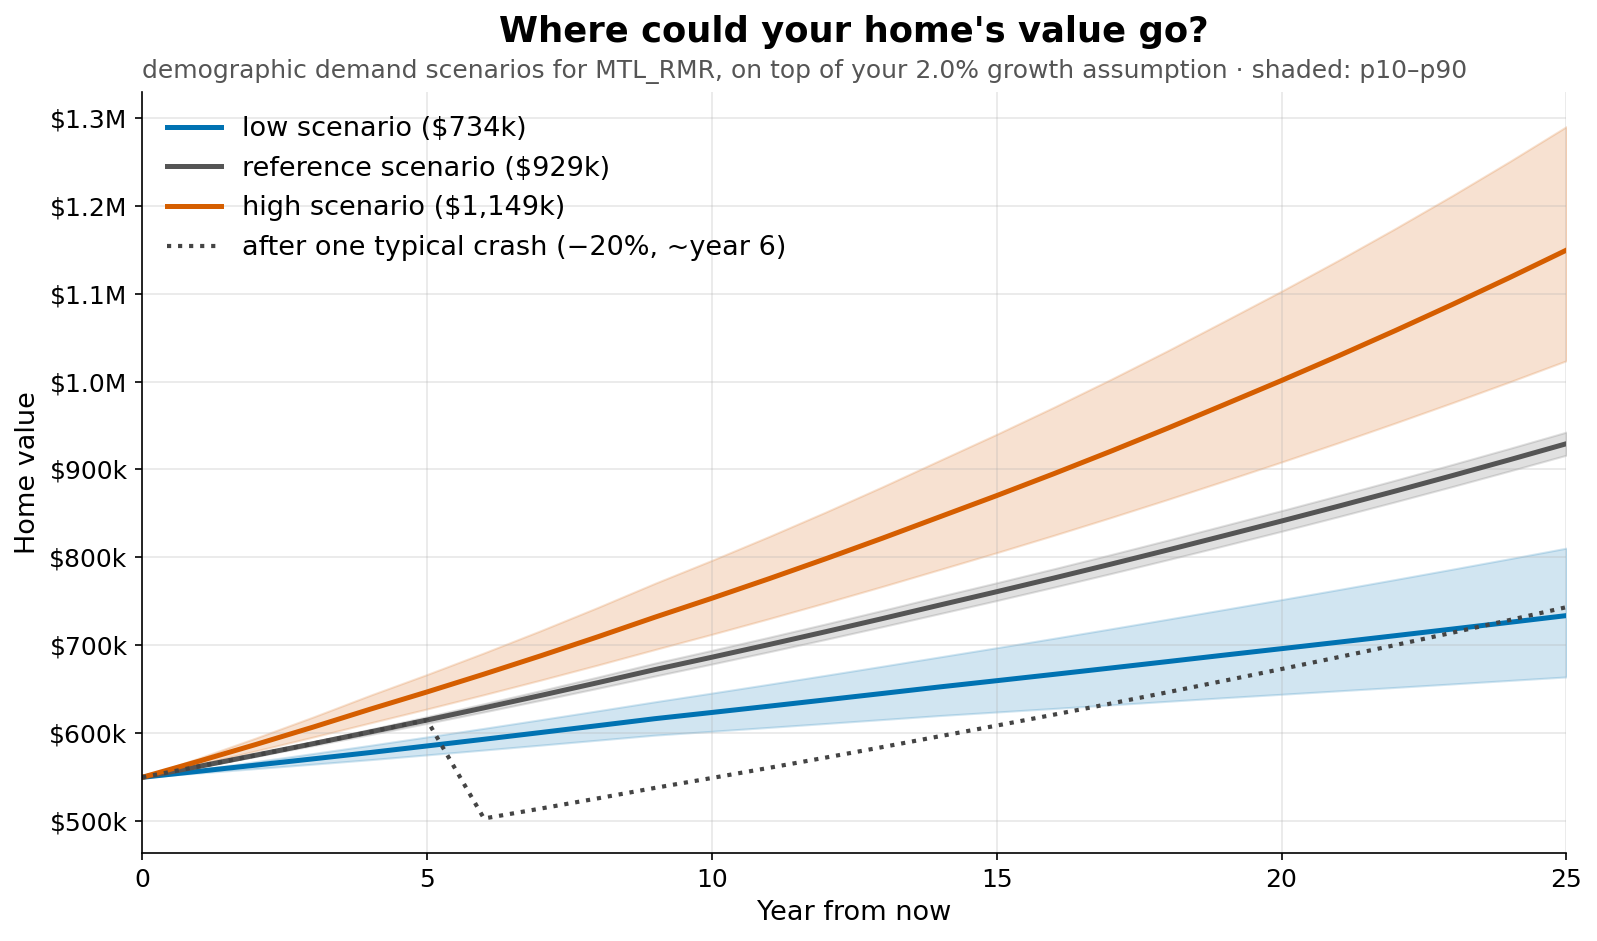
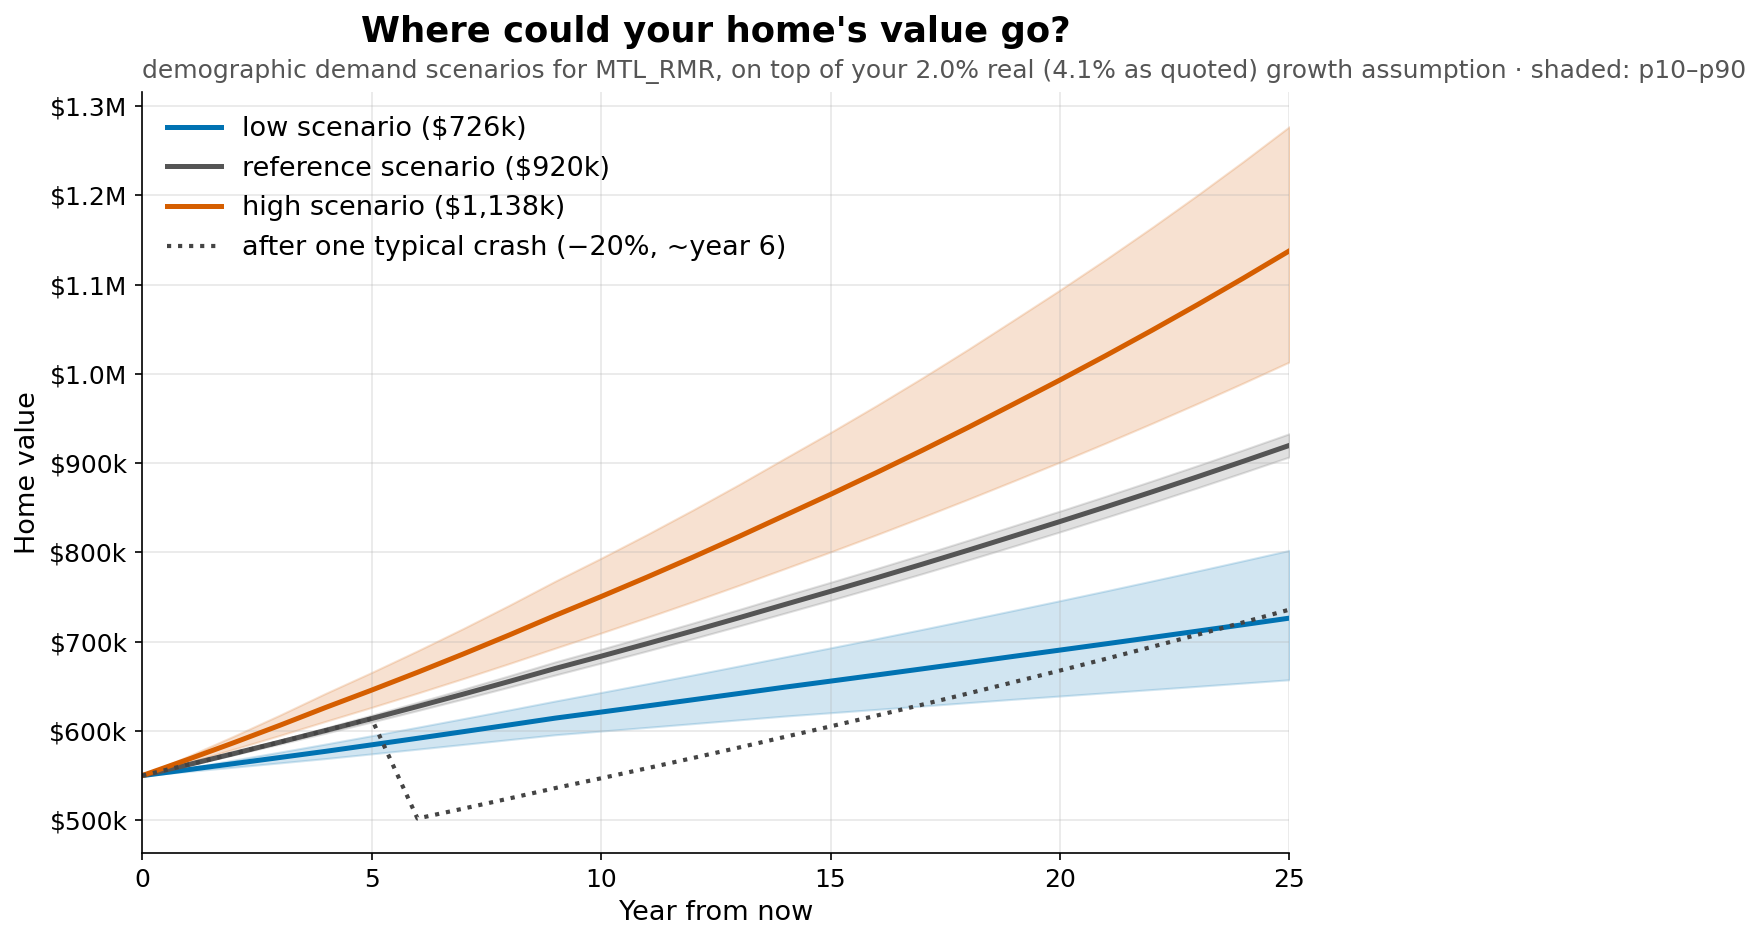
docs(story): regenerate the showcase — the example's migrated as-quoted values moved the run
The showcase example now types its rates as quoted (7.2% discount, 5.2% fee
escalation, 4.1% growth, 4.7% rent escalation, 7.2% return, deflated by the
2.1% planning inflation), so the run moved: house still edges the condo, by
$4,135 (0.8%) instead of $3,115 (0.6%); the break-even rent band is
$2,189–$2,413/mo (crossing $2,298) instead of $2,193–$2,418 (crossing
$2,303); the captions of acts 2 and 4 name the discount and growth
assumptions in both forms. Rerun twice: byte-stable.

diff --git a/docs/story/STORY.md b/docs/story/STORY.md
@@ -2,15 +2,15 @@
 
 # The story of this housing decision
 
-**Too close to call — effectively a tie: Buying a house edges buying a condo by $3,115 (0.6%) over 25 years, cheapest in only 36% of 5,000 simulations — the Monte Carlo mean favours renting** — under MTL_RMR demographic conditions · 25-year horizon.
+**Too close to call — effectively a tie: Buying a house edges buying a condo by $4,135 (0.8%) over 25 years, cheapest in only 36% of 5,000 simulations** — under MTL_RMR demographic conditions · 25-year horizon.
 
-> warning: decisiveness rests on uncertainty inputs the user did not state: simulation.investment_return_vol=10.0% (assistant), condo.price_shock.annual_hazard=3.0% (assistant), condo.price_shock.severity_mean=20.0% (assistant), condo.events=1 entry (cost_vol 20.0%) (assistant), house.price_shock.annual_hazard=3.0% (assistant), house.price_shock.severity_mean=20.0% (assistant), house.events=1 entry (cost_vol 15.0%) (assistant), market_scenario.path='tests/fixtures/scenario_prior_golden.json' (assistant) — the deterministic line alone says house by $3,115 (0.6% of its PV — not decisive under the 5% band)
+> warning: decisiveness rests on uncertainty inputs the user did not state: simulation.investment_return_vol=10.0% (assistant), condo.price_shock.annual_hazard=3.0% (assistant), condo.price_shock.severity_mean=20.0% (assistant), condo.events=1 entry (cost_vol 20.0%) (assistant), house.price_shock.annual_hazard=3.0% (assistant), house.price_shock.severity_mean=20.0% (assistant), house.events=1 entry (cost_vol 15.0%) (assistant), market_scenario.path='tests/fixtures/scenario_prior_golden.json' (assistant) — the deterministic line alone says house by $4,135 (0.8% of its PV — not decisive under the 5% band)
 
 Demographic prior: MTL_RMR demand model (ISQ 2026 scenarios, 2021 census) · constants as of 2026-07-21 · simulation year 1 = calendar 2026, bands 2030/2035/2040/2045/2050 · mapping v1: excess-demand rate → real price drift through a linear-through-origin β prior with the uniform β demoflow pinned; horizon bands (2030…2050) are piecewise-constant with no interpolation; drawdown_weight_tilt multiplies the user's price-shock hazard (S4b sketch §1 slots 2–3, §3) · encoded REAL drift by band, added to value_growth_rate in the Monte Carlo — all: reference 2030 +0.27%/yr, 2035 +0.25%/yr, 2040 +0.09%/yr, 2045 +0.03%/yr, 2050 +0.01%/yr (scenarios -0.94%…+1.35%) · 13 pinned sources (sha256 in --json): StatCan 98-10-0231-01; ISQ arrival flows (RA); ISQ arrival flows (RMR); derived: headship rate by single year of age; StatCan 98-10-0232-01; derived: living-arrangement shares; StatCan 98-10-0134-01; CIA CPM2014 mortality + CPM-B scale; derived: ownership rate by geography × age; derived: HORS_RMR ownership curve; ISQ population scenarios (QC); ISQ population scenarios (RA); ISQ population scenarios (RMR).
 
 ## Act — The answer
 
-Too close to call — effectively a tie: Buying a house edges buying a condo by $3,115 (0.6%) over 25 years, cheapest in only 36% of 5,000 simulations — the Monte Carlo mean favours renting
+Too close to call — effectively a tie: Buying a house edges buying a condo by $4,135 (0.8%) over 25 years, cheapest in only 36% of 5,000 simulations
 
 ![The answer](act1_the_answer.png)
 
@@ -28,7 +28,7 @@ In 36% of 5,000 simulations, buying a house came out cheapest.
 
 ## Act — Your home's possible futures
 
-Under MTL_RMR demographic demand scenarios, the home's value fans out around your 2.0% growth assumption.
+Under MTL_RMR demographic demand scenarios, the home's value fans out around your 2.0% real (4.1% as quoted) growth assumption.
 
 ![Your home's possible futures](act4_home_futures.png)
 
@@ -40,7 +40,7 @@ The demographic signal itself: projected price drift from household demand in MT
 
 ## Act — The market line
 
-Your $2,400/mo sits inside the tie band around the crossing — renting is cheaper below $2,193/mo; too close to call between $2,193/mo and $2,418/mo; buying a house is cheaper above $2,418/mo (crossing $2,303/mo; band = 5% of the cheaper option's PV).
+Your $2,400/mo sits inside the tie band around the crossing — renting is cheaper below $2,189/mo; too close to call between $2,189/mo and $2,413/mo; buying a house is cheaper above $2,413/mo (crossing $2,298/mo; band = 5% of the cheaper option's PV).
 
 ![The market line](act6_the_market_line.png)
 
@@ -50,15 +50,16 @@ Full text report: [report.txt](report.txt)
 
 ## Assumptions
 
-- mode: real terms · discount_rate 5.0%
-- condo: value growth +2.0%/yr · fee escalation +3.0%/yr · selling_cost_rate 5.0%
-- house: value growth +2.0%/yr · maintenance 1.2% of value/yr · selling_cost_rate 5.0%
+- mode: real terms · discount_rate 7.2% as quoted → 5.0% real (after 2.1% inflation)
+- condo: value growth +2.0%/yr (4.1% as quoted) · fee escalation +3.0%/yr (5.2% as quoted) · selling_cost_rate 5.0%
+- house: value growth +2.0%/yr (4.1% as quoted) · maintenance 1.2% of value/yr · selling_cost_rate 5.0%
 - condo other costs: property_tax $3,600/yr = 0.750% of price [no anchor match — hde --print-anchors]
 - house other costs: property_tax $4,700/yr = 0.855% of price [no anchor match — hde --print-anchors] · home_insurance $1,200/yr [no anchor match — hde --print-anchors]
-- rent: escalation +2.5%/yr · invested capital $145,000 at +5.0%/yr
+- rent: escalation +2.5%/yr (4.7% as quoted) · invested capital $145,000 at +5.0%/yr (7.2% as quoted)
 - conventions: end-of-year cash flows discounted at (1+dr)^-t · fees, rent and other costs escalate before year 1, maintenance from year 1 · mortgage = level annual payment at an effective annual rate · $/mo equivalent at (1+dr)^(1/12)−1 (docs/reference/ARCHITECTURE.md figure glossary)
 - demographic prior: MTL_RMR (ISQ 2026 scenarios, 2021 census) · constants as of 2026-07-21 · sha256 e73fff23ef46… [demoflow ScenarioPrior v1] · reference REAL drift over this 25-year run — all: +0.27%/yr (2030 band), +0.25%/yr (2035 band), +0.09%/yr (2040 band), +0.03%/yr (2045 band), +0.01%/yr (2050 band) (added to value_growth_rate in the Monte Carlo; all bands and the scenario range in --json)
-- defaults applied: economic.mode='real', economic.inflation_rate=0.0% [ref: FP Canada 2026 PAG], condo.selling_cost_rate=5.0% [WOWA 2026], house.selling_cost_rate=5.0% [WOWA 2026]
+- defaults applied: economic.mode='real', economic.inflation_rate=2.1% [FP Canada 2026 PAG], condo.selling_cost_rate=5.0% [WOWA 2026], house.selling_cost_rate=5.0% [WOWA 2026]
+- rates: as quoted · discount_rate 7.2% as quoted = 5.0% after 2.1% inflation · condo.fee_escalation_rate 5.2% as quoted = 3.0% after 2.1% inflation · condo.value_growth_rate 4.1% as quoted = 2.0% after 2.1% inflation · condo.other_recurring_costs.property_tax.escalation_rate 2.1% as quoted = 0.0% after 2.1% inflation · house.value_growth_rate 4.1% as quoted = 2.0% after 2.1% inflation · house.other_recurring_costs.property_tax.escalation_rate 2.1% as quoted = 0.0% after 2.1% inflation · house.other_recurring_costs.home_insurance.escalation_rate 2.1% as quoted = 0.0% after 2.1% inflation · rent.rent_escalation_rate 4.7% as quoted = 2.5% after 2.1% inflation · rent.investment_return_rate 7.2% as quoted = 5.0% after 2.1% inflation
 - user-stated: years=25, market_scenario.geography='MTL_RMR', condo.monthly_fee=$800/mo, condo.initial_value=$480,000, condo.all_cash=true, house.initial_value=$550,000, house.all_cash=true, rent.monthly_rent=$2,400/mo, rent.invested_down_payment=$145,000
-- assistant-typed: discount_rate=5.0%, market_scenario.path='tests/fixtures/scenario_prior_golden.json', condo.fee_escalation_rate=3.0%, condo.value_growth_rate=2.0%, condo.purchase_costs=$7,200, condo.other_recurring_costs=1 entry, condo.price_shock.annual_hazard=3.0%, condo.price_shock.severity_mean=20.0%, condo.events=1 entry, house.value_growth_rate=2.0%, house.annual_maintenance_rate=1.2%, house.purchase_costs=$8,200, house.other_recurring_costs=2 entries, house.price_shock.annual_hazard=3.0%, house.price_shock.severity_mean=20.0%, house.events=1 entry, rent.rent_escalation_rate=2.5%, rent.investment_return_rate=5.0%, simulation.num_sims=5,000, simulation.random_seed=42, simulation.investment_return_vol=10.0%
+- assistant-typed: discount_rate=7.2%, market_scenario.path='tests/fixtures/scenario_prior_golden.json', condo.fee_escalation_rate=5.2%, condo.value_growth_rate=4.1%, condo.purchase_costs=$7,200, condo.other_recurring_costs=1 entry, condo.price_shock.annual_hazard=3.0%, condo.price_shock.severity_mean=20.0%, condo.events=1 entry, house.value_growth_rate=4.1%, house.annual_maintenance_rate=1.2%, house.purchase_costs=$8,200, house.other_recurring_costs=2 entries, house.price_shock.annual_hazard=3.0%, house.price_shock.severity_mean=20.0%, house.events=1 entry, rent.rent_escalation_rate=4.7%, rent.investment_return_rate=7.2%, simulation.num_sims=5,000, simulation.random_seed=42, simulation.investment_return_vol=10.0%
 - anchor-sourced: condo.price_shock.severity_vol=10.0% [price_shock.severity_vol], house.price_shock.severity_vol=10.0% [price_shock.severity_vol]
